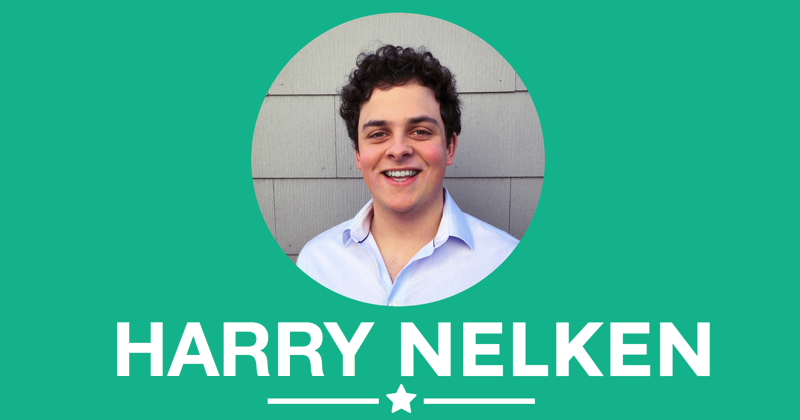
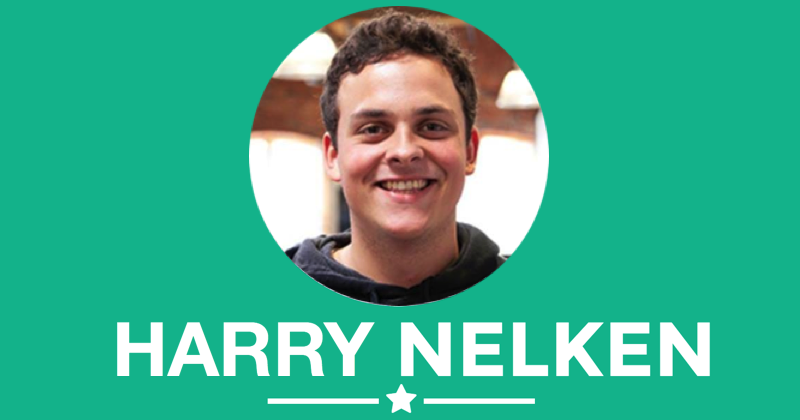
Swap photos and location text

Changed region(s): [[0.3125, 0.0, 0.6875, 0.7429]]

diff --git a/index.html b/index.html
@@ -232,7 +232,7 @@
                     <div class="footer-col col-md-4">
                       <img class="star-light-img" src="img/star-light.png">
                         <h3>Location</h3>
-                        <p>Greater New York City Area<br></p>
+                        <p>Boston, MA<br></p>
                     </div>
                     <div class="footer-col col-md-4">
                       <img class="star-light-img" src="img/star-light.png">
